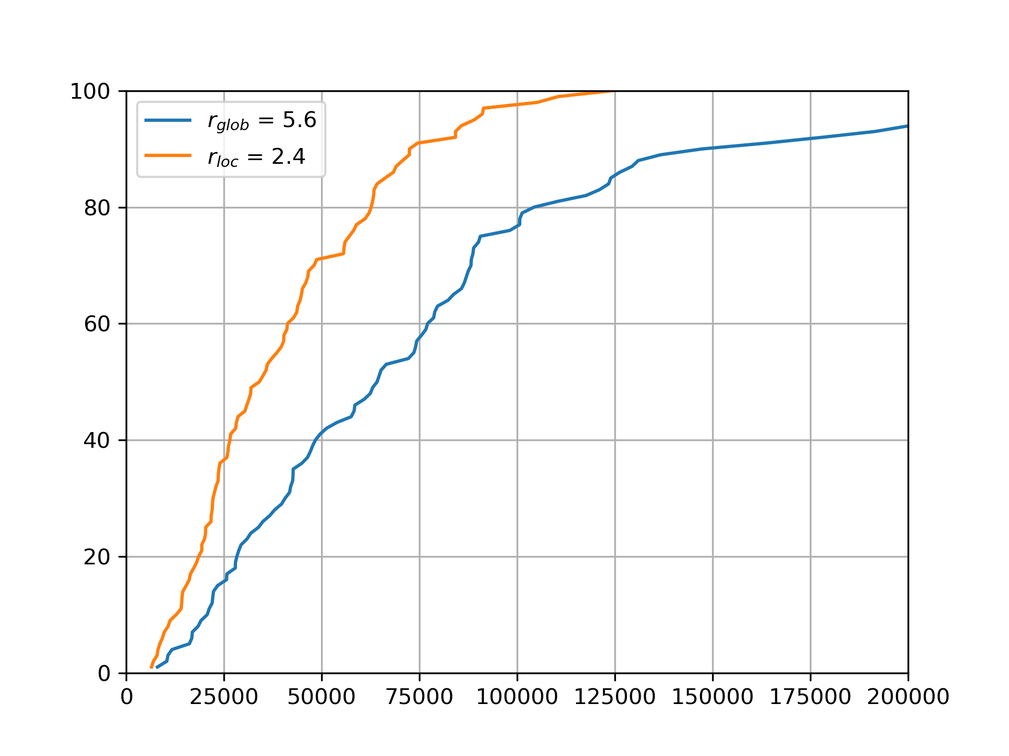
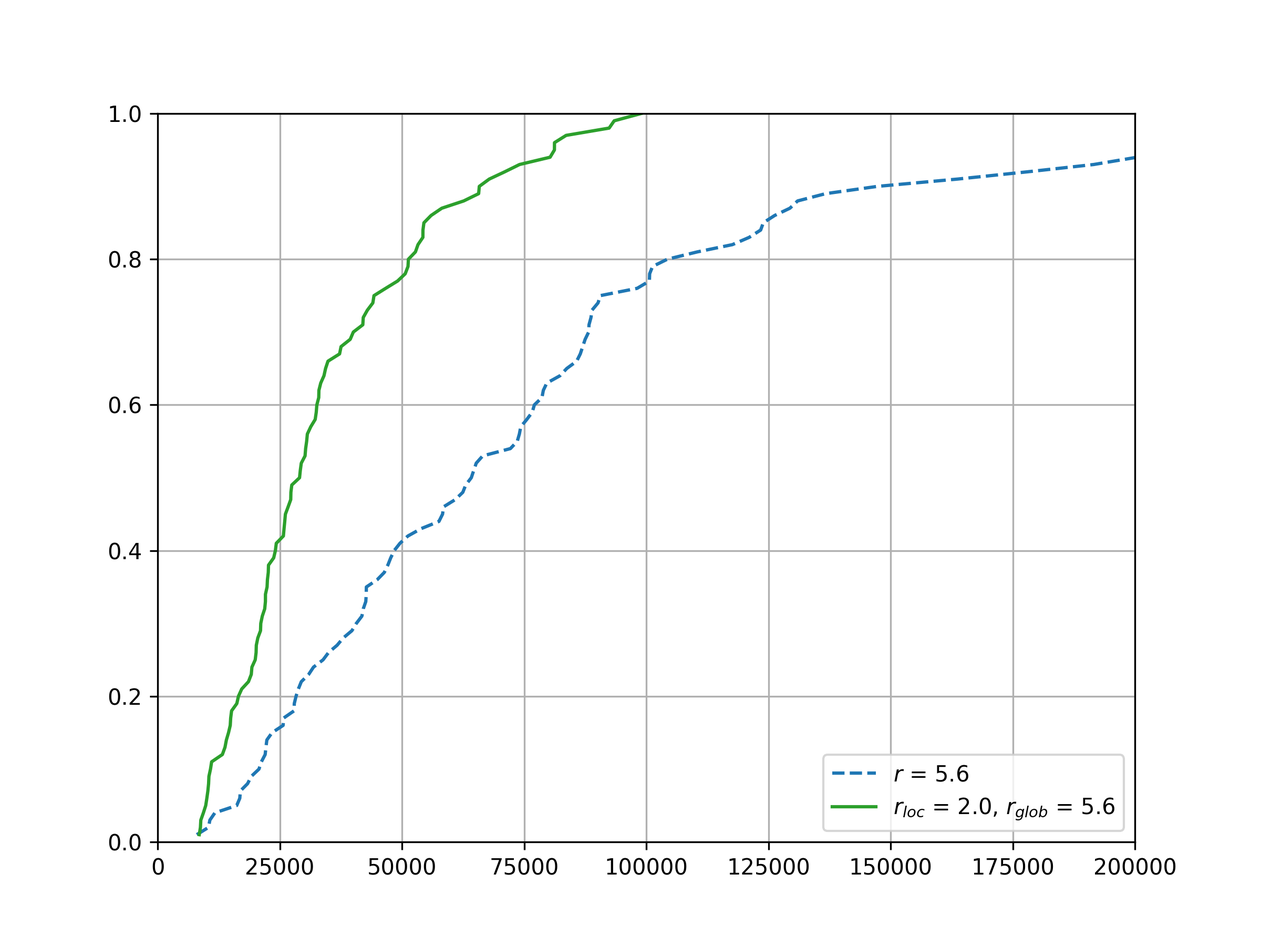
Before translation

diff --git a/2019/NUMTA_Barkalov/LNCS/numta19.tex b/2019/NUMTA_Barkalov/LNCS/numta19.tex
@@ -21,9 +21,7 @@
 
 \begin{document}
 %
-\title{Acceleration of Global Search through Dual Lipschitz Constant Estimates
-\thanks{This research was supported by the the Russian Science Foundation,
-project No.\,16-11-10150.}}
+\title{Acceleration of Global Search through Dual Lipschitz Constant Estimates\thanks{This research was supported by the the Russian Science Foundation, project No.\,16-11-10150.}}
 %
 \titlerunning{Acceleration of Global Search}
 % If the paper title is too long for the running head, you can set
@@ -78,21 +76,21 @@ where the objective function is a black-box function and assumed to satisfy the 
 \]
 with the constant $L$ unknown a priori.
 
-Предположение липшицевости целевой функции является типичным для многих подходов к разработке алгоритмов глобальной оптимизации \cite{Pinter1996,Strongin2000,Zilinskas2010,Evtushenko2013}. При этом наиболее важной проблемой, так или иначе решаемой в данных алгоритмах, является адаптивная оценка неизвестной константы Липшица на основе полученной поисковой информации. 
+%Russian
+Предположение липшицевости целевой функции является типичным для многих подходов к разработке алгоритмов глобальной оптимизации \cite{Evtushenko2013,Zilinskas2010,Pinter1996,Strongin2000}. При этом наиболее важной проблемой, так или иначе решаемой в данных алгоритмах, является адаптивная оценка неизвестной Lipschitz constant на основе полученной поисковой информации. 
 
-Значение константы Липшица существенно влияет на скорость сходимости алгоритмов липшицевой глобальной оптимизации, поэтому столь важным является вопрос ее корректной оценки. Заниженная оценка инстинного значения константы Липшица может привести к потере сходимости алгоритма к глобальному решению. В то же время слишком большое значение оценки константы $L$ для целевой функции, %предполагает сложную структуру функции с резкими перепадами ее значений. Поэтому завышенная оценка константы L, 
-не соответствующее ее истинному поведению, влечет за собой медленную сходимость алгоритма к точке глобального минимума. 
+Значение Lipschitz constant существенно влияет на скорость сходимости алгоритмов липшицевой глобальной оптимизации, поэтому столь важным является вопрос ее корректной оценки. Заниженная оценка инстинного значения константы может привести к потере сходимости алгоритма к глобальному решению. В то же время слишком большое значение оценки константы $L$ для целевой функции, не соответствующее ее истинному поведению, влечет за собой медленную сходимость алгоритма к точке глобального минимума. 
 
-Известны несколько типичных способов адаптивного оценивания константы Липшица:
+Известны несколько типичных способов адаптивного оценивания Lipschitz constant:
 \begin{itemize}
-	\item глобальная оценка константы Липшица $L$ во всей области поиска $D$ \cite{Horst1996,Pinter1996,Strongin2000}.
-	\item локальные оценки константы Липшица $L_i$ в различных подобластях $D_i$ области поиска $D$ \cite{Kvasov2003,Sergeyev2010,Sergeyev2016}.
-	\item выбор оценок константы $L$ из некоторого множества возможных значений \cite{Jones1993,Gablonsky2001,Jones2009,Sergeyev2006}.
+	\item глобальная оценка константы $L$ во всей области поиска $D$ \cite{Horst1996,Pinter1996,Strongin2000}.
+	\item локальные оценки константы $L_i$ в различных подобластях $D_i$ области поиска $D$ \cite{Kvasov2003,Sergeyev2010,Sergeyev2016}.
+	\item выбор оценок константы $L$ из некоторого множества возможных значений \cite{Gablonsky2001,Jones1993,Jones2009,Sergeyev2006}.
 \end{itemize}
 
 Каждый из указанных подходов обладает своими достоинствами и недостатками. Например, использование только глобальной оценки во всей области поиска может замедлить сходимость алгоритма к точке глобального минимума. А использование локальных оценок, ускоряющих сходимость, требует адекватной настройки параметров алгоритма для сохранения глобальной сходимости. 
 
-В данной работе рассмотрен алгоритм, котором предлагается использовать две глобальных оценки константы Липшица, одна из которых значительно больше другой. 
+В данной работе рассмотрен алгоритм, котором предлагается использовать две глобальных оценки Lipschitz constant, одна из которых значительно больше другой. 
 The larger estimate ensures global convergence and the smaller one reduces the total number of trials needed to find the global optimizer.
 Выбор того, какая из двух оценок будет использоваться в правилах алгоритма, осуществляется адаптивно, в зависимости от поведения функции и фазы поиска.
 
@@ -100,10 +98,10 @@ The larger estimate ensures global convergence and the smaller one reduces the t
 
 
 \section{Global search algorithm and dimensionality reduction}
-
+%Russian - два абзаца
 Типичным способом конструирования алгоритмов глобальной оптимизации является адаптация эффективных алгоритмов для решения одномерных задач к решению многомерных задач, see, for example, the diagonal partitions method in \cite{Sergeyev2006} or the simplicial partitions method in \cite{Zilinskas2008}.
 
-В данной статье используется подход, основанный на идеях редукции размерности с помощью Peano-Hilbert curves \cite{Strongin2000,Sergeyev2013}, which continuously and unambiguously maps the unit interval $[0,1]$ onto the $n$-dimensional cube $D$ from (\ref{D}). By using this kind of mapping it is possible to reduce the multidimensional problem (\ref{problem}) to a univariate problem
+В данной статье используется подход, основанный на идеях редукции размерности с помощью Peano-Hilbert curves \cite{Sergeyev2013,Strongin2000}, which continuously and unambiguously maps the unit interval $[0,1]$ onto the $n$-dimensional cube $D$ from (\ref{D}). By using this kind of mapping it is possible to reduce the multidimensional problem (\ref{problem}) to a univariate problem
 \[
 \varphi(y^\ast)=\varphi(y(x^\ast))=\min{\left\{\varphi(y(x)): x\in[0,1]\right\}},
 \]
@@ -170,33 +168,34 @@ The algorithm terminates if the condition $\Delta_t < \epsilon$ is satisfied
 where $t$ is from (\ref{MaxR}), and $\epsilon>0$ is the predefined accuracy. 
 
 The theory of convergence of this algorithm is provided in \cite{Strongin2000}.
-%The modifications taking into account .... are given in [....].
+
 
 \section{Algorithm with Dual Lipschitz Constant Estimates}
 
-Алгоритм глобального поиска, изложенной в предыдущем разделе, предназначен для решения многоэкстремальных задач, в которых целевая функция удовлетворяет условию Липшица. При этом для для работы алгоритма не требуется задания  значений константы. Оценка константы осуществляется в процессе глобального поиска на основе имеющейся поисковой информации. 
-В соответствии с теоремой \cite{Strongin2000}, последовательность точек испытаний $\{y^k\}$ будет сходиться к global minimizer $y^*$, если выполнено условие  
+%Russian
+Алгоритм глобального поиска, изложенной в предыдущем разделе, предназначен для решения многоэкстремальных задач, в которых целевая функция удовлетворяет Lipschitz condition. При этом для для работы алгоритма не требуется задания  значений константы. Оценка константы осуществляется в процессе глобального поиска на основе имеющейся поисковой информации. 
+В соответствии с теоремой из \cite{Strongin2000}, последовательность точек испытаний $\{y^k\}$ будет сходиться к global minimizer $y^*$, если выполнено условие  
 \begin{equation}\label{cond}
 r\mu > 2^{3-1/N}L\sqrt{N+3}.
 \end{equation}
-Таким образом, подходящий выбор параметра $r$ из (\ref{R}) позволяет использовать значение $r\mu / 2^{3-1/N}\sqrt{N+3}$ как оценку константы Липшица для целевой функции $\varphi(y)$.
+Таким образом, подходящий выбор параметра $r$ из (\ref{R}) позволяет использовать значение $r\mu / 2^{3-1/N}\sqrt{N+3}$ как оценку Lipschitz constant для целевой функции $\varphi(y)$.
 
 Выполнение условия (\ref{cond}) будет гарантировано при выборе большого значения параметра $r$, однако при этом метод выполнит большое количество испытаний до выполнения условия остановки.
-Выбор малого значения параметра $r$ (что соответствует заниженной оценке константы Липшица) значительно сократит число испытаний, но может нарушить сходимость к глобальному экстремуму.
+Выбор малого значения параметра $r$ (что соответствует заниженной оценке Lipschitz constant) значительно сократит число испытаний, но может нарушить сходимость к глобальному экстремуму.
 
-Перспективным является подход, при котором в правилах алгоритма будут использованы две оценки константы Липшица, одна из которых будет значительно выше другой, что соответствует использованию в алгоритме двух парметров $r_{glob}$ и $r_{loc}$, где $r_{glob} > r_{loc}$.
+Перспективным является подход, при котором в правилах алгоритма будут использованы две оценки Lipschitz constant, одна из которых будет значительно выше другой, что соответствует использованию в алгоритме двух парметров $r_{glob}$ и $r_{loc}$, где $r_{glob} > r_{loc}$.
 
-Правила алгоритма с двойной оценкой константы Липшица будут полностью повторять алгоритм глобального поиска, за исключением правила 3 (вычисление характеристики).
+Правила алгоритма с двойной оценкой Lipschitz constant будут полностью повторять алгоритм глобального поиска, за исключением правила 3 (вычисление характеристики).
 
 Новое правило вычисления характеристики $R(i)$ интервала $(x_{i-1}, x_i)$ будет состоять из следующих действий:
 \begin{itemize}
 \item
-Вычислить значение $R_{glob}(i)$, соответствующее большей оценке константы Липшица
+Вычислить значение $R_{glob}(i)$, соответствующее большей оценке Lipschitz constant
 \[
 R_{glob}(i)=\Delta_i+\frac{(z_i-z_{i-1})^2}{r_{glob}^2\mu^2\Delta_i}-2\frac{z_i+z_{i-1}-2z^*}{r_{glob}\mu}.
 \]
 \item
-Вычислить значение $R_{loc}(i)$, соответствующее меньшей оценке константы Липшица
+Вычислить значение $R_{loc}(i)$, соответствующее меньшей оценке Lipschitz constant
 \[
 R_{loc}(i)=\Delta_i+\frac{(z_i-z_{i-1})^2}{r_{loc}^2\mu^2\Delta_i}-2\frac{z_i+z_{i-1}-2z^*}{r_{loc}\mu}.
 \]
@@ -206,7 +205,8 @@ R_{loc}(i)=\Delta_i+\frac{(z_i-z_{i-1})^2}{r_{loc}^2\mu^2\Delta_i}-2\frac{z_i+z_
 R(i) = \max\{\rho R_{loc}(i),R_{glob}(i)\}, где \rho = \left(\frac{1-1/r_{glob}}{1-1/r_{loc}}\right)^2,
 \end{equation}
 и зафиксировать значение $r = r_{loc}$, если  $\rho R_{loc}(i) > R_{glob}(i)$, иначе зафиксировать $r=r_{glob}$.
-Данное значение $r$ будет использовано в правиле 5 алгоритма при вычислении точки нового испытания.   
+\item
+Данное значение $r$ использовать в правиле 5 алгоритма при вычислении точки нового испытания.   
 \end{itemize}.
 
 Указанный способ вычисления характеристики имеет следующее обоснование. 
@@ -222,9 +222,7 @@ R(i) \geq \Delta_i \left( 1 - \frac{1}{r} \right)^2.
 The numerical comparison of the algorithms has been carried out using the GKLS 
 test problem generator \cite{Gaviano2003}. 
 This generator of multiextremal functions is often used for the investigations of the global 
-optimization algorithms ~\cite{Paulavicius2014,Sergeyev2015,%Lebedev2015,Gergel2015,
-Barkalov2018}.
-%This generator allows multiextremal optimization problems to be generated with known properties (the number of localminima, the size of their domains of attraction, the global minimizer, etc.). 
+optimization algorithms ~\cite{Barkalov2018,Paulavicius2014,Sergeyev2015}.
 Six GKLS classes of differentiable test functions of the dimensions $N = 3,4,5$
 have been used. For each dimension, both \textit{Hard} and \textit{Simple}
 classes have been considered. The difficulty of a class was increased either by
@@ -232,19 +230,16 @@ decreasing the radius of the attraction region of the global minimizer, or by
 decreasing the distance from the global minimizer $y^\ast$ to the domain
 boundaries. The global minimizer $y^\ast$ was considered to be found, if the
 algorithm generated a trial point $y^k$ in the vicinity of the global minimum,
-i.e. $\left|y^k-y^\ast\right| <\delta\left\|b-a\right\|$, where $\delta = 0.01$,
+i.e. $\left|y^k-y^\ast\right| <\delta\left\|b-a\right\|$, 
 $a$ and $b$ are the boundaries of the search domain $D$. 
 
-%УКАЗАТЬ ПРАВИЛЬНЫЕ ПАРАМЕТРЫ
-When using the Global Search Algorithm, the parameter $r$ was set to $5$, 
-the evolvent construction parameter was fixed as $m = 10$. 
-The maximum allowable number of iterations per problem was $K_{max} = 10^6$.
+%Russian
+Каждая серия задач была решена с помощью исходного алгоритма глобального поиска (GSA) и спомощью метода с двойной оценкой Lipschitz constant (GSA-DL). Для редукции размерности в обоих алгоритмах использовалась evolvent, построенная с параметром $m = 10$. Относительная точность поиска решения при $N=3,4$ составляла $\delta = 0.01$, а при $N=5$ -- $\delta = 0.03$. The maximum allowable number of iterations per problem was $K_{max} = 10^6$.
 
-Каждая серия задач была решена с помощью исходного алгоритма глобального поиска (GSA) и спомощью метода с двойной оценкой константы Липшица (GSA-DL). Среднее число итераций, выполненное алгоритмами, отражено в табл. \ref{tab:1}.
-При этом при решении задач класса Simple в GSA использовалось единственное значение параметра $r=4.8$, при решении задач класса Hard -- $r=5.6$.
+Среднее число итераций, выполненное алгоритмами, отражено в Table \ref{tab:1}.
+При этом при решении задач класса Simple в GSA использовалось значение параметра $r=4.8$, при решении задач класса Hard -- $r=5.6$.
 Указанное значение является минимальным (с точностью 0.1) значением, при котором успешно решились все задачи.
-При решении данных классов задач с использованием GSA-DL указанное ранее значение параметра $r$ выбиралось для верхней оценки константы Липшица, т.е. задавалось значение $r_{glob} = r$, которое дополнялось значениями $r_{loc}=1.8$ и $r_{loc}=2.4$. 
-%Структуру таблицы можно взять из статьи 
+При решении данных классов задач с использованием GSA-DL указанное ранее значение параметра $r$ выбиралось для верхней оценки Lipschitz constant, т.е. задавалось значение $r_{glob} = r$, которое дополнялось значениями $r_{loc}=1.8$, $r_{loc}=2.1$ $r_{loc}=2.4$.  
 
 \begin{table}
 	\caption{Average number of iterations}
@@ -252,23 +247,25 @@ The maximum allowable number of iterations per problem was $K_{max} = 10^6$.
 	\center
 	\begin{tabular}{ccccccccc}
 		\hline\noalign{\smallskip}
-		$r$ & \multicolumn{2}{c}{$N=3$} & & \multicolumn{2}{c}{$N=4$} & & \multicolumn{2}{c}{$N=5$}  \\
+		 & \multicolumn{2}{c}{$N=3$} & & \multicolumn{2}{c}{$N=4$} & & \multicolumn{2}{c}{$N=5$}  \\
 		\noalign{\smallskip} \cline{2-3} \cline{5-6} \cline{8-9} \noalign{\smallskip}
 		 & \textit{Simple} & \textit{Hard} & & \textit{Simple} & \textit{Hard} & & \textit{Simple} & \textit{Hard}  \\
 		\noalign{\smallskip} \hline \noalign{\smallskip}
-									AGS	&	2502	&	2502	&	&	28254	&	28254	&	&	87261	&	87261	\\
-AGS-DL, $r_{loc}=2.4$	&	2502	&	2496	&	&	28254	&	27206	&	&	87261	&	85994	\\
-AGS-DL, $r_{loc}=1.8$	&	2502	&	2430	&	&	28254	&	30121	&	&	87261	&	78064	\\
+									AGS	&	2444	&	5345	& &	28415	&	77470	& &		&		\\
+AGS-DL, $r_{loc}=1.8$	&	1372	&	2632	& &	13273	&	37715	& &		&		\\
+AGS-DL, $r_{loc}=2.1$	&	1502	&	2805	& &	14826	&	38843	& &		&		\\
+AGS-DL, $r_{loc}=2.4$	&	1567	&	2868	& &	19447	&	40342	& &		&		\\
 		\noalign{\smallskip}\hline
 	\end{tabular}
 \end{table}
 
-Превосходство алгоритма GSA-DL над его прототипом наглядно подтверждается также и операционными характеристиками алгоритмов.  
+
+Превосходство алгоритма GSA-DL над его прототипом  подтверждается также и операционными характеристиками алгоритмов. 
+
+Пусть решается некоторая серия тестовых задач. Результат решения серии можно представить функцией $p(k)$, характеризующей долю задач, решенных за $k$ итераций. Такую функцию будем называть \textit{operational characteristic} of the algorithm. 
 
 
-Результат решения всех задач серии будем представлять функцией $p(k)$, характеризующей долю задач, решенных за $k$ итераций. Такую функцию будем называть \textit{operational characteristic} of the algorithm..
-
-Операционные характеристики для методов GSA и GSA-DL, полученные при решении серий задач \textit{Simple} and \textit{Hard} размерностей $N=4$ и $N=5$ представлены соответственно на рис. \ref{oper4} и \ref{oper5}.
+Операционные характеристики для методов GSA и GSA-DL, полученные при решении серий задач \textit{Simple} and \textit{Hard} размерностей $N=4$ и $N=5$ представлены соответственно на Fig. \ref{oper4} и \ref{oper5}. Значения параметров $r$, используемых для оценки Lipschitz constant, приведены на рисунках.
 
 \begin{figure}
 \begin{minipage}{0.5\linewidth}
@@ -284,21 +281,17 @@ AGS-DL, $r_{loc}=1.8$	&	2502	&	2430	&	&	28254	&	30121	&	&	87261	&	78064	\\
 
 \begin{figure}
 \begin{minipage}{0.5\linewidth}
-\center{\includegraphics[width=1.0\linewidth]{Operating_characteristic_gklss_4.png} \\ (a)}
+\center{\includegraphics[width=1.0\linewidth]{Operating_characteristic_gklss_5.png} \\ (a)}
 \end{minipage}
 \hfill
 \begin{minipage}{0.5\linewidth}
-\center{\includegraphics[width=1.0\linewidth]{Operating_characteristic_gklsh_4.png} \\ (b)}
+\center{\includegraphics[width=1.0\linewidth]{Operating_characteristic_gklsh_5.png} \\ (b)}
 \end{minipage}
 \caption{Operational characteristics for GKLS Simple (a) and Hard (b) classes, $N=5$.}
 \label{oper5}
 \end{figure}
 
-
-Нижние кривые на обеих фигурах характеризуют GSA, а верхние линии — GSA-DL. Указанное расположение кривых показывает, что алгоритм с двумя оценками константы Липшица обеспечивает в среднем значительно более быстрое решение задач данного класса, чем алгоритм с использованием единственной оценки константы Липшица.
-
-%\section{Conclusion}
-%В работе рассматривались задачи глобальной оптимизации, в которых целевая функция удовлетворяет условию Липшица. Был предложен новый способ учета информации о поведения целевой функции в различных подобластях области поиска, основанный на использовании двух оценок константы Липшица, одна из которых значительно больше другой. Сформулированы правила алгоритма, использующего две оценки константы. БОльшая оценка гарантирует сходимость алгоритма к глобальному оптимуму, а одновременное использование меньшей оценки ведет к ускорению сходимости алгоритма. Выбор того, какая из двух оценок будет использоваться в правилах алгоритма, осуществляется адаптивно, в зависимости от поведения функции и фазы поиска.Проведены вычислительные эксперименты, наглядно демонстрирующие эффективность нового алгоритма. При проведении вычислительных экспериментов было решено несколько сотен тестовых многоэкстремальных задач разной размерности.
+Нижние кривые на Fig. \ref{oper4} и \ref{oper5} характеризуют GSA, а верхние линии — GSA-DL. Указанное расположение кривых показывает, что алгоритм с двумя оценками Lipschitz constant обеспечивает в среднем значительно более быстрое решение задач серии, чем алгоритм с использованием единственной оценки константы.
 
 %
 % ---- Bibliography ----
